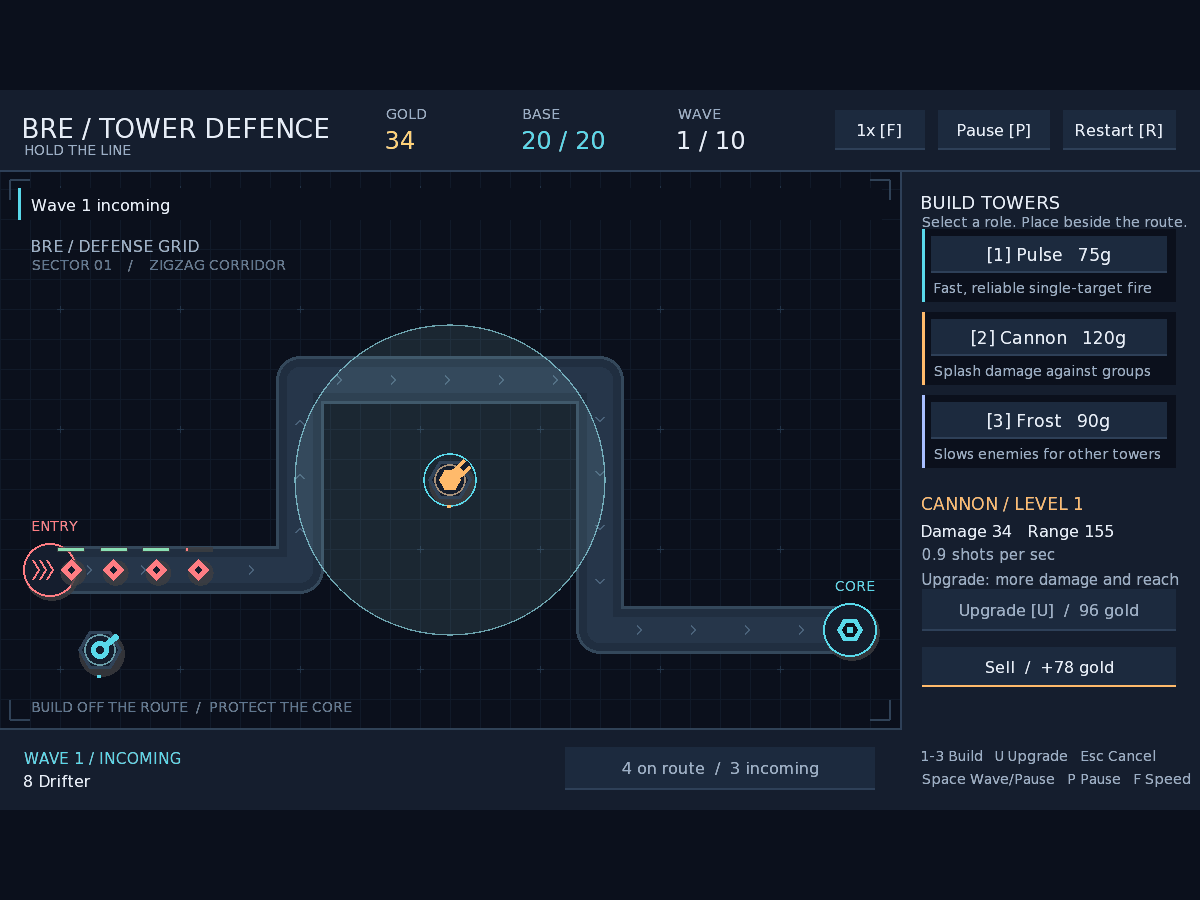
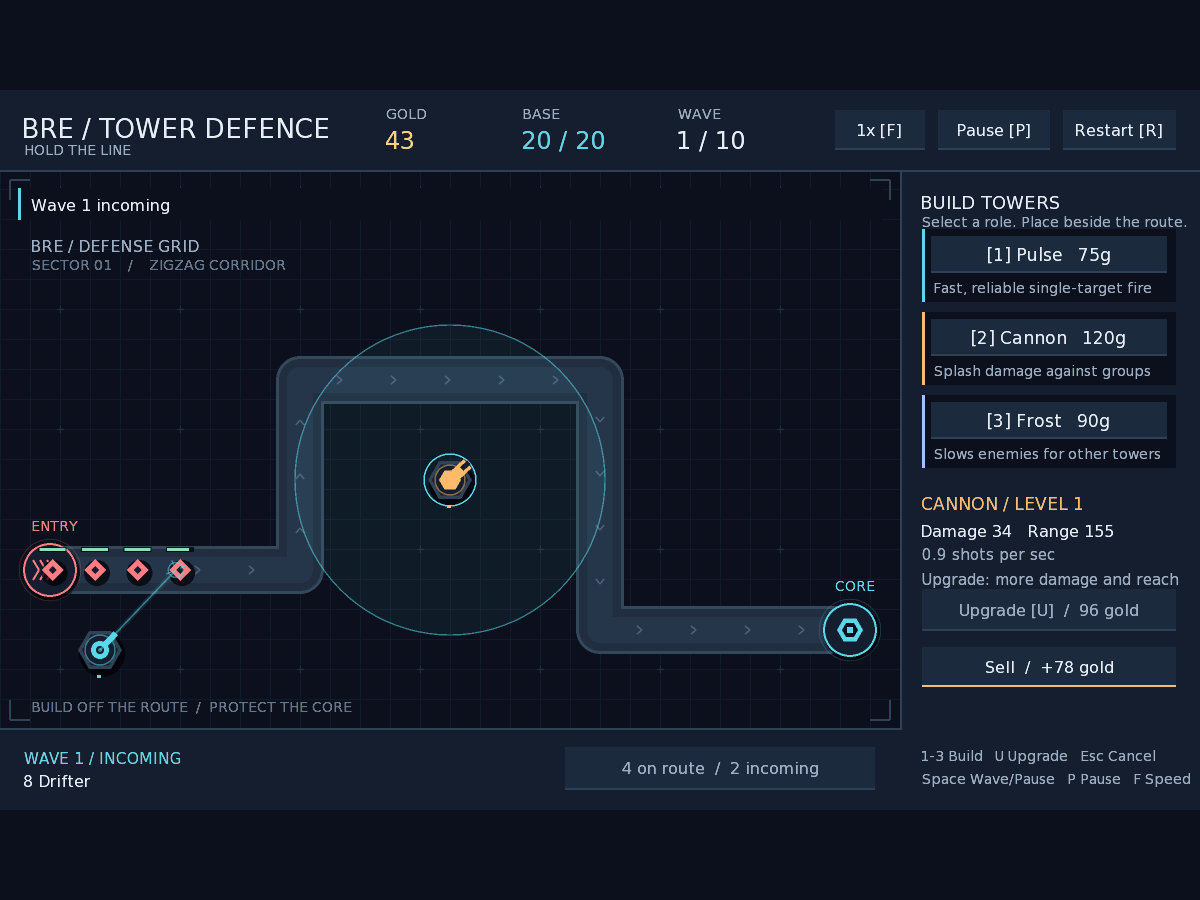
Antialias battlefield geometry with supersampling fallback

diff --git a/core/src/main/kotlin/io/felixmenzel/towerdefence/rendering/WorldRenderer.kt b/core/src/main/kotlin/io/felixmenzel/towerdefence/rendering/WorldRenderer.kt
@@ -3,6 +3,10 @@ package io.felixmenzel.towerdefence.rendering
 import com.badlogic.gdx.Gdx
 import com.badlogic.gdx.graphics.Color
 import com.badlogic.gdx.graphics.GL20
+import com.badlogic.gdx.graphics.Pixmap
+import com.badlogic.gdx.graphics.Texture.TextureFilter
+import com.badlogic.gdx.graphics.g2d.TextureRegion
+import com.badlogic.gdx.graphics.glutils.FrameBuffer
 import com.badlogic.gdx.graphics.g2d.SpriteBatch
 import com.badlogic.gdx.graphics.glutils.ShapeRenderer
 import com.badlogic.gdx.math.Matrix4
@@ -15,6 +19,8 @@ import io.felixmenzel.towerdefence.simulation.GameSimulation
 import io.felixmenzel.towerdefence.simulation.GameState
 import io.felixmenzel.towerdefence.simulation.Tower
 import io.felixmenzel.towerdefence.simulation.TowerType
+import kotlin.math.abs
+import kotlin.math.acos
 import kotlin.math.atan2
 import kotlin.math.ceil
 import kotlin.math.floor
@@ -29,6 +35,12 @@ class WorldRenderer(private val fonts: ScreenFonts) : Disposable {
     private val viewportBuffer = BufferUtils.newIntBuffer(4)
     private val scissorBuffer = BufferUtils.newIntBuffer(4)
     private val projectedPoint = Vector3()
+    private var pixelsPerUnit = 1f
+    private val boardClipBuffer = BufferUtils.newIntBuffer(4)
+    private val sampleBuffer = BufferUtils.newIntBuffer(1)
+    private val boardProjection = Matrix4().setToOrtho2D(0f, 0f, WIDTH, HEIGHT)
+    private var fallbackBuffer: FrameBuffer? = null
+    private var fallbackRegion: TextureRegion? = null
 
     fun render(
         simulation: GameSimulation,
@@ -39,12 +51,66 @@ class WorldRenderer(private val fonts: ScreenFonts) : Disposable {
         cursorX: Double? = null,
         cursorY: Double? = null,
     ) {
-        shapes.projectionMatrix = projection
         batch.projectionMatrix = projection
         val hadBlend = Gdx.gl.glIsEnabled(GL20.GL_BLEND)
         val hadScissor = beginBoardClip(projection)
+        val nativeDensity = abs(projection.`val`[Matrix4.M00]) * viewportBuffer.get(2) / 2f
         Gdx.gl.glEnable(GL20.GL_BLEND)
-        Gdx.gl.glBlendFunc(GL20.GL_SRC_ALPHA, GL20.GL_ONE_MINUS_SRC_ALPHA)
+        Gdx.gl.glBlendFuncSeparate(GL20.GL_SRC_ALPHA, GL20.GL_ONE_MINUS_SRC_ALPHA,
+            GL20.GL_ONE, GL20.GL_ONE_MINUS_SRC_ALPHA)
+        sampleBuffer.clear()
+        Gdx.gl.glGetIntegerv(GL20.GL_SAMPLES, sampleBuffer)
+        val supersample = sampleBuffer.get(0) < 4
+        if (supersample) {
+            val target = supersampledBoard(nativeDensity)
+            boardClipBuffer.clear()
+            Gdx.gl.glGetIntegerv(GL20.GL_SCISSOR_BOX, boardClipBuffer)
+            Gdx.gl.glDisable(GL20.GL_SCISSOR_TEST)
+            target.begin()
+            Gdx.gl.glClearColor(0f, 0f, 0f, 0f)
+            Gdx.gl.glClear(GL20.GL_COLOR_BUFFER_BIT)
+            pixelsPerUnit = target.width / WIDTH
+            shapes.projectionMatrix = boardProjection
+        } else {
+            pixelsPerUnit = nativeDensity
+            shapes.projectionMatrix = projection
+        }
+        drawGeometry(simulation, alpha, selectedTower, buildType, cursorX, cursorY)
+        if (supersample) {
+            fallbackBuffer!!.end()
+            Gdx.gl.glViewport(viewportBuffer.get(0), viewportBuffer.get(1), viewportBuffer.get(2), viewportBuffer.get(3))
+            Gdx.gl.glEnable(GL20.GL_SCISSOR_TEST)
+            Gdx.gl.glScissor(boardClipBuffer.get(0), boardClipBuffer.get(1), boardClipBuffer.get(2), boardClipBuffer.get(3))
+        }
+        batch.begin()
+        if (supersample) batch.draw(fallbackRegion!!, 0f, 0f, WIDTH, HEIGHT)
+        // Text stays in the native framebuffer, including on the supersampling fallback.
+        drawLabels(simulation)
+        batch.end()
+        if (hadBlend) Gdx.gl.glEnable(GL20.GL_BLEND) else Gdx.gl.glDisable(GL20.GL_BLEND)
+        endBoardClip(hadScissor)
+    }
+
+    /** Use 2x supersampling when the window system cannot supply a multisampled buffer. */
+    private fun supersampledBoard(nativeDensity: Float): FrameBuffer {
+        sampleBuffer.clear()
+        Gdx.gl.glGetIntegerv(GL20.GL_MAX_TEXTURE_SIZE, sampleBuffer)
+        val limit = minOf(sampleBuffer.get(0), 4096).toFloat()
+        val density = minOf(nativeDensity * 2f, limit / WIDTH, limit / HEIGHT)
+        val width = ceil(WIDTH * density).toInt().coerceAtLeast(1)
+        val height = ceil(HEIGHT * density).toInt().coerceAtLeast(1)
+        val current = fallbackBuffer
+        if (current != null && current.width == width && current.height == height) return current
+        current?.dispose()
+        val target = FrameBuffer(Pixmap.Format.RGBA8888, width, height, false)
+        target.colorBufferTexture.setFilter(TextureFilter.Linear, TextureFilter.Linear)
+        fallbackBuffer = target
+        fallbackRegion = TextureRegion(target.colorBufferTexture).apply { flip(false, true) }
+        return target
+    }
+
+    private fun drawGeometry(simulation: GameSimulation, alpha: Double, selectedTower: Tower?,
+        buildType: TowerType?, cursorX: Double?, cursorY: Double?) {
         shapes.begin(ShapeRenderer.ShapeType.Filled)
         drawBoard(simulation)
         selectedTower?.let { drawRange(it.x.toFloat(), it.y.toFloat(), it.range.toFloat(), CYAN) }
@@ -55,11 +121,6 @@ class WorldRenderer(private val fonts: ScreenFonts) : Disposable {
             drawPreview(simulation, buildType, cursorX.toFloat(), cursorY.toFloat())
         }
         shapes.end()
-        batch.begin()
-        drawLabels(simulation)
-        batch.end()
-        if (hadBlend) Gdx.gl.glEnable(GL20.GL_BLEND) else Gdx.gl.glDisable(GL20.GL_BLEND)
-        endBoardClip(hadScissor)
     }
 
     private fun drawBoard(simulation: GameSimulation) {
@@ -117,7 +178,7 @@ class WorldRenderer(private val fonts: ScreenFonts) : Disposable {
 
     private fun drawPath(simulation: GameSimulation, width: Float, color: Color) {
         shapes.color = color
-        simulation.path.forEach { shapes.circle(it.x.toFloat(), it.y.toFloat(), width / 2f, 24) }
+        simulation.path.forEach { circle(it.x.toFloat(), it.y.toFloat(), width / 2f) }
         for (index in 0 until simulation.path.lastIndex) {
             val start = simulation.path[index]
             val end = simulation.path[index + 1]
@@ -127,9 +188,9 @@ class WorldRenderer(private val fonts: ScreenFonts) : Disposable {
 
     private fun drawGate(x: Float, y: Float, color: Color, core: Boolean, tick: Long) {
         shapes.color = SHADOW
-        shapes.circle(x + 2f, y - 3f, 28f, 24)
+        circle(x + 2f, y - 3f, 28f)
         shapes.color = PANEL
-        shapes.circle(x, y, 27f, 24)
+        circle(x, y, 27f)
         ring(x, y, 26f, 2f, color)
         shapes.color = color
         if (core) {
@@ -151,7 +212,7 @@ class WorldRenderer(private val fonts: ScreenFonts) : Disposable {
 
     private fun drawRange(x: Float, y: Float, range: Float, color: Color) {
         shapes.setColor(color.r, color.g, color.b, 0.055f)
-        shapes.circle(x, y, range, 80)
+        circle(x, y, range)
         ring(x, y, range, 1.3f, color, 0.55f)
     }
 
@@ -160,7 +221,7 @@ class WorldRenderer(private val fonts: ScreenFonts) : Disposable {
         val y = tower.y.toFloat()
         val color = towerColor(tower.type)
         shapes.color = SHADOW
-        shapes.circle(x + 2f, y - 4f, 23f, 24)
+        circle(x + 2f, y - 4f, 23f)
         shapes.color = BORDER
         hexagon(x, y, 22f)
         shapes.color = PANEL
@@ -197,10 +258,10 @@ class WorldRenderer(private val fonts: ScreenFonts) : Disposable {
         shapes.color = color
         when (type) {
             TowerType.RAPID -> {
-                shapes.circle(x, y, 9f, 20)
+                circle(x, y, 9f)
                 shapes.rectLine(x, y, x + dx * 23f, y + dy * 23f, 6f)
                 shapes.color = PANEL
-                shapes.circle(x, y, 4f, 16)
+                circle(x, y, 4f)
             }
             TowerType.CANNON -> {
                 hexagon(x, y, 11f)
@@ -237,7 +298,7 @@ class WorldRenderer(private val fonts: ScreenFonts) : Disposable {
         val radius = when (enemy.type) { EnemyType.ARMORED -> 13f; EnemyType.FAST -> 9f; EnemyType.NORMAL -> 11f }
         val color = when (enemy.type) { EnemyType.ARMORED -> ORANGE; EnemyType.FAST -> MAGENTA; EnemyType.NORMAL -> CORAL }
         shapes.color = SHADOW
-        shapes.circle(x + 2f, y - 3f, radius + 2f, 16)
+        circle(x + 2f, y - 3f, radius + 2f)
         shapes.color = color
         when (enemy.type) {
             EnemyType.ARMORED -> {
@@ -280,7 +341,7 @@ class WorldRenderer(private val fonts: ScreenFonts) : Disposable {
             shapes.rectLine(fromX, fromY, toX, toY, if (shot.type == TowerType.CANNON) 9f else 5f)
             shapes.setColor(color.r, color.g, color.b, opacity)
             shapes.rectLine(fromX, fromY, toX, toY, if (shot.type == TowerType.CANNON) 3f else 1.6f)
-            shapes.circle(fromX, fromY, 4f * opacity, 12)
+            circle(fromX, fromY, 4f * opacity)
             val radius = when (shot.type) {
                 TowerType.CANNON -> 8f + age * 42f
                 TowerType.FROST -> 5f + age * 17f
@@ -369,13 +430,34 @@ class WorldRenderer(private val fonts: ScreenFonts) : Disposable {
         }
     }
 
+    /** Target a 0.2-pixel chord error with bounded geometry cost. */
+    private fun curveSegments(radius: Float): Int {
+        val pixelRadius = (radius * pixelsPerUnit).coerceAtLeast(1f)
+        return ceil(kotlin.math.PI / acos((1.0 - 0.2 / pixelRadius).coerceIn(-1.0, 1.0)))
+            .toInt().coerceIn(32, 256)
+    }
+
+    private fun circle(x: Float, y: Float, radius: Float) {
+        shapes.circle(x, y, radius, curveSegments(radius))
+    }
+
     private fun ring(x: Float, y: Float, radius: Float, width: Float, color: Color, alpha: Float = 1f) {
         shapes.setColor(color.r, color.g, color.b, alpha)
-        val count = if (radius > 40f) 72 else 36
+        val count = curveSegments(radius)
+        val inner = (radius - width / 2f).coerceAtLeast(0f)
+        val outer = radius + width / 2f
+        // A closed triangle strip avoids gaps and dark overlapping caps between line segments.
         for (index in 0 until count) {
             val a = index * TWO_PI / count
             val b = (index + 1) * TWO_PI / count
-            shapes.rectLine(x + cos(a) * radius, y + sin(a) * radius, x + cos(b) * radius, y + sin(b) * radius, width)
+            val ax = cos(a)
+            val ay = sin(a)
+            val bx = cos(b)
+            val by = sin(b)
+            shapes.triangle(x + ax * inner, y + ay * inner, x + ax * outer, y + ay * outer,
+                x + bx * outer, y + by * outer)
+            shapes.triangle(x + ax * inner, y + ay * inner, x + bx * outer, y + by * outer,
+                x + bx * inner, y + by * inner)
         }
     }
 
@@ -399,6 +481,7 @@ class WorldRenderer(private val fonts: ScreenFonts) : Disposable {
     }
 
     override fun dispose() {
+        fallbackBuffer?.dispose()
         batch.dispose()
         shapes.dispose()
     }

diff --git a/lwjgl3/src/smoke/kotlin/io/felixmenzel/towerdefence/lwjgl3/DesktopSmokeTest.kt b/lwjgl3/src/smoke/kotlin/io/felixmenzel/towerdefence/lwjgl3/DesktopSmokeTest.kt
@@ -5,6 +5,9 @@ import com.badlogic.gdx.Gdx
 import com.badlogic.gdx.Input
 import com.badlogic.gdx.backends.lwjgl3.Lwjgl3Application
 import com.badlogic.gdx.backends.lwjgl3.Lwjgl3ApplicationConfiguration
+import com.badlogic.gdx.graphics.GL20
+import com.badlogic.gdx.graphics.glutils.FrameBuffer
+import com.badlogic.gdx.utils.BufferUtils
 import com.badlogic.gdx.graphics.Pixmap
 import com.badlogic.gdx.graphics.PixmapIO
 import com.badlogic.gdx.math.Vector2
@@ -29,6 +32,8 @@ object DesktopSmokeTest {
         val config = Lwjgl3ApplicationConfiguration().apply {
             setTitle("BRE Tower Defence / Desktop smoke")
             setWindowedMode(1200, 720)
+            setHdpiMode(com.badlogic.gdx.graphics.glutils.HdpiMode.Logical)
+            setSamples(4)
             useVsync(false)
             setForegroundFPS(60)
             disableAudio(true)
@@ -67,6 +72,20 @@ object DesktopSmokeTest {
             check(frame <= 400) { "Smoke test exceeded frame budget" }
             when (frame) {
                 1 -> {
+                    val samples = BufferUtils.newIntBuffer(1)
+                    Gdx.gl.glGetIntegerv(GL20.GL_SAMPLES, samples)
+                    if (samples.get(0) >= 4) {
+                        println("Geometry antialiasing active: ${samples.get(0)} samples")
+                    } else {
+                        val renderer = privateField<Any>(screen, "renderer")
+                        val target = privateField<FrameBuffer?>(renderer, "fallbackBuffer")
+                        val nativeWidth = viewport.screenWidth.toFloat() / DefenseScreen.WIDTH *
+                            Gdx.graphics.backBufferWidth / Gdx.graphics.width * DefenseScreen.BOARD_WIDTH
+                        check(target != null && target.width >= nativeWidth * 1.5f) {
+                            "Geometry lacks both multisampling and supersampling"
+                        }
+                        println("Geometry antialiasing active: supersampled framebuffer ${target.width}x${target.height}")
+                    }
                     check(simulation.gold == GameSimulation.START_GOLD)
                     check(simulation.state == GameState.PREPARING)
                     key(Input.Keys.NUM_1)

diff --git a/lwjgl3/src/main/kotlin/io/felixmenzel/towerdefence/lwjgl3/Lwjgl3Launcher.kt b/lwjgl3/src/main/kotlin/io/felixmenzel/towerdefence/lwjgl3/Lwjgl3Launcher.kt
@@ -15,6 +15,7 @@ fun main() {
     Lwjgl3Application(Main(), Lwjgl3ApplicationConfiguration().apply {
         setTitle("BRE Tower Defence")
         setHdpiMode(com.badlogic.gdx.graphics.glutils.HdpiMode.Logical)
+        setSamples(4)
         //// Vsync limits the frames per second to what your hardware can display, and helps eliminate
         //// screen tearing. This setting doesn't always work on Linux, so the line after is a safeguard.
         useVsync(true)

diff --git a/docs/verification.md b/docs/verification.md
@@ -47,3 +47,9 @@ The environment supports six simultaneous subagents plus the lead, so the sevent
 Replaced fractional scaling of the default low-resolution bitmap font with bundled DejaVu Sans (Latin subset, including license). FreeType, already included in the project, generates text atlases for each required physical pixel size. Density combines the fitted viewport scale with the actual framebuffer/window ratio; density changes dispose the old atlas cache and regenerate it. UI text baselines are aligned to physical pixels. The desktop launcher explicitly uses logical HiDPI coordinates.
 
 Executed `./gradlew build test lwjgl3:smokeTest`: build and all 35 simulation tests passed. The rendered smoke test additionally resizes from 1200 to 1800 pixels wide, checks that native glyph resolution increases while logical text size stays stable, then returns to the original size. Both screenshots were visually inspected. The scaled screenshot is uploaded by CI together with the regular preview. This is a framebuffer/resize regression check; actual Retina/HiDPI hardware testing remains outstanding.
+
+## Geometry clarity follow-up
+
+The desktop launcher and smoke test request four-sample MSAA. If the actual window framebuffer supplies fewer than four samples, the renderer draws only battlefield geometry into a 2x framebuffer and filters it back to the native viewport; labels and HUD text are drawn natively afterwards. The fallback is resized with the viewport, bounded to the GPU texture limit and 4096 pixels per dimension, and disposed with the renderer. Rings use a closed annular mesh and curve subdivision targets a 0.2-physical-pixel chord error.
+
+Executed `./gradlew build test lwjgl3:smokeTest` successfully, with all 35 rules tests passing. The software Xorg driver reported zero multisamples, so the real desktop check verified the fallback framebuffer (1800x1120 for a 900x560 native board), input, resizing and native text resolution. Screenshots at 1200 and 1800 pixels wide were inspected; turret and gate outlines are visibly smoother. An independent QA review found no blocking state-restoration, alpha or resource-management issues. Hardware MSAA availability remains driver-dependent; the fallback covers its absence.

diff --git a/README.md b/README.md
@@ -37,7 +37,7 @@ Start each wave when ready; there is no preparation timer. Killing enemies earns
 | Right-click / Esc | Cancel placement or selection; Esc otherwise pauses |
 | R | Request restart; confirm with Enter/R or cancel with Esc |
 
-The window scales with a FitViewport and ignores clicks in letterboxing. Text is rasterized from the bundled DejaVu Sans font at the current framebuffer resolution, including HiDPI scaling; it is regenerated when the viewport density changes. Losing application focus pauses the game.
+The window scales with a FitViewport and ignores clicks in letterboxing. Text is rasterized from the bundled DejaVu Sans font at the current framebuffer resolution, including HiDPI scaling; it is regenerated when the viewport density changes. Towers, gates and effects use four-sample antialiasing when available, with a supersampled battlefield fallback when the window system cannot provide it. Text stays at native resolution. Losing application focus pauses the game.
 
 ## Verify
 
